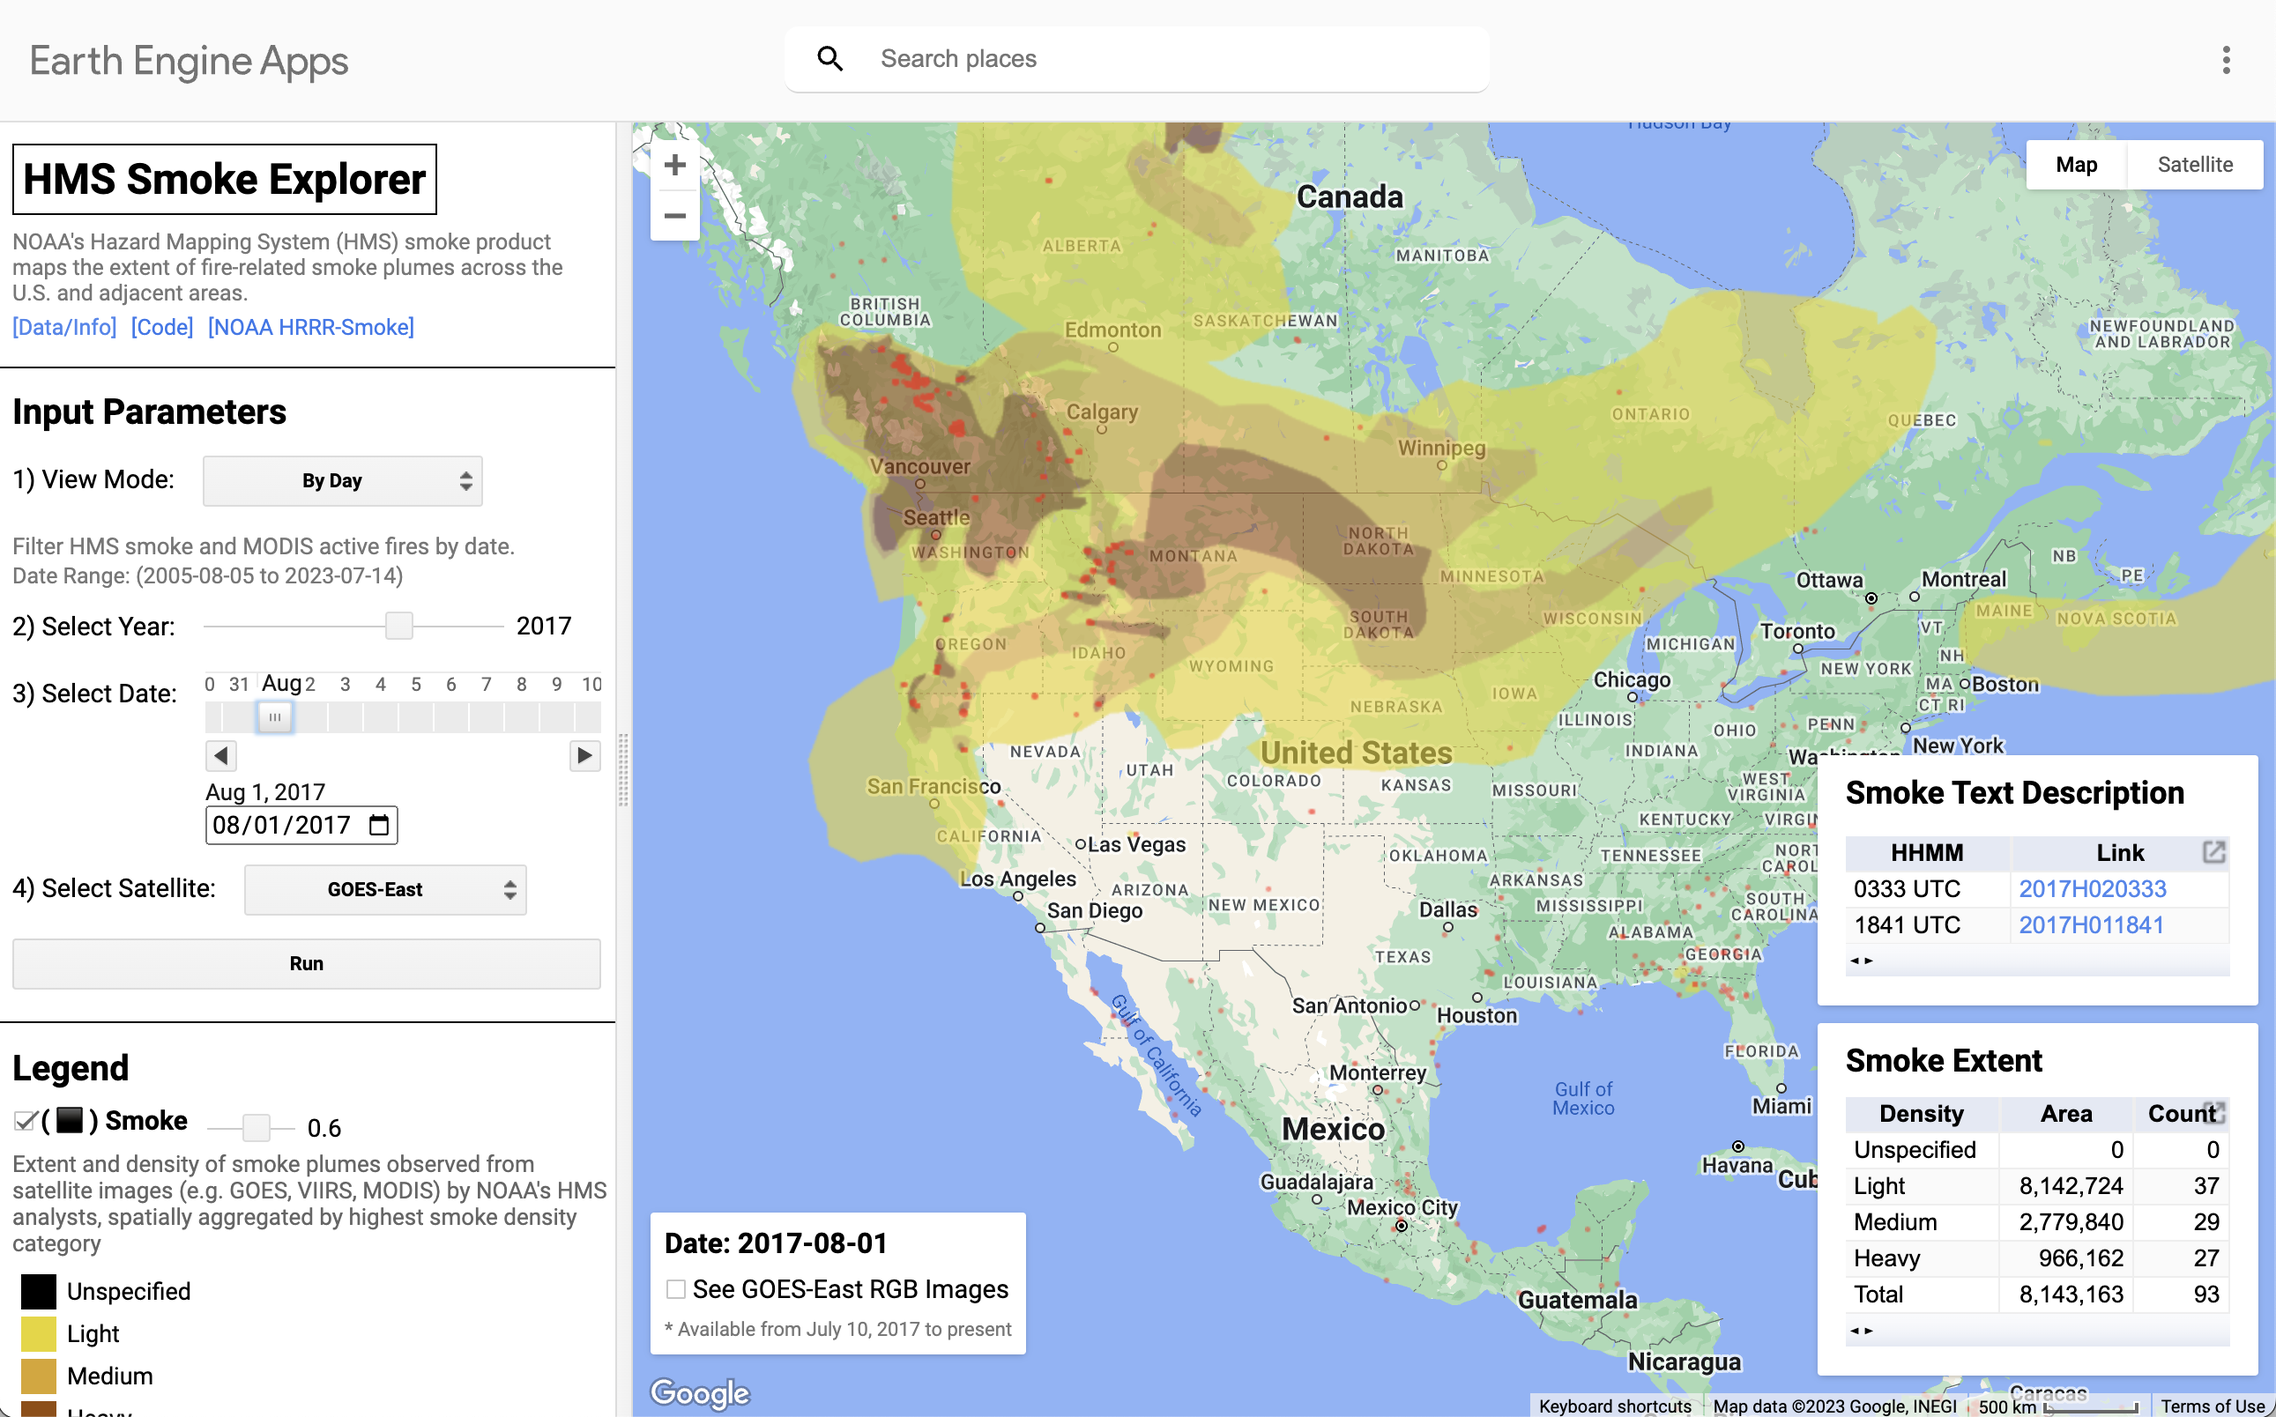
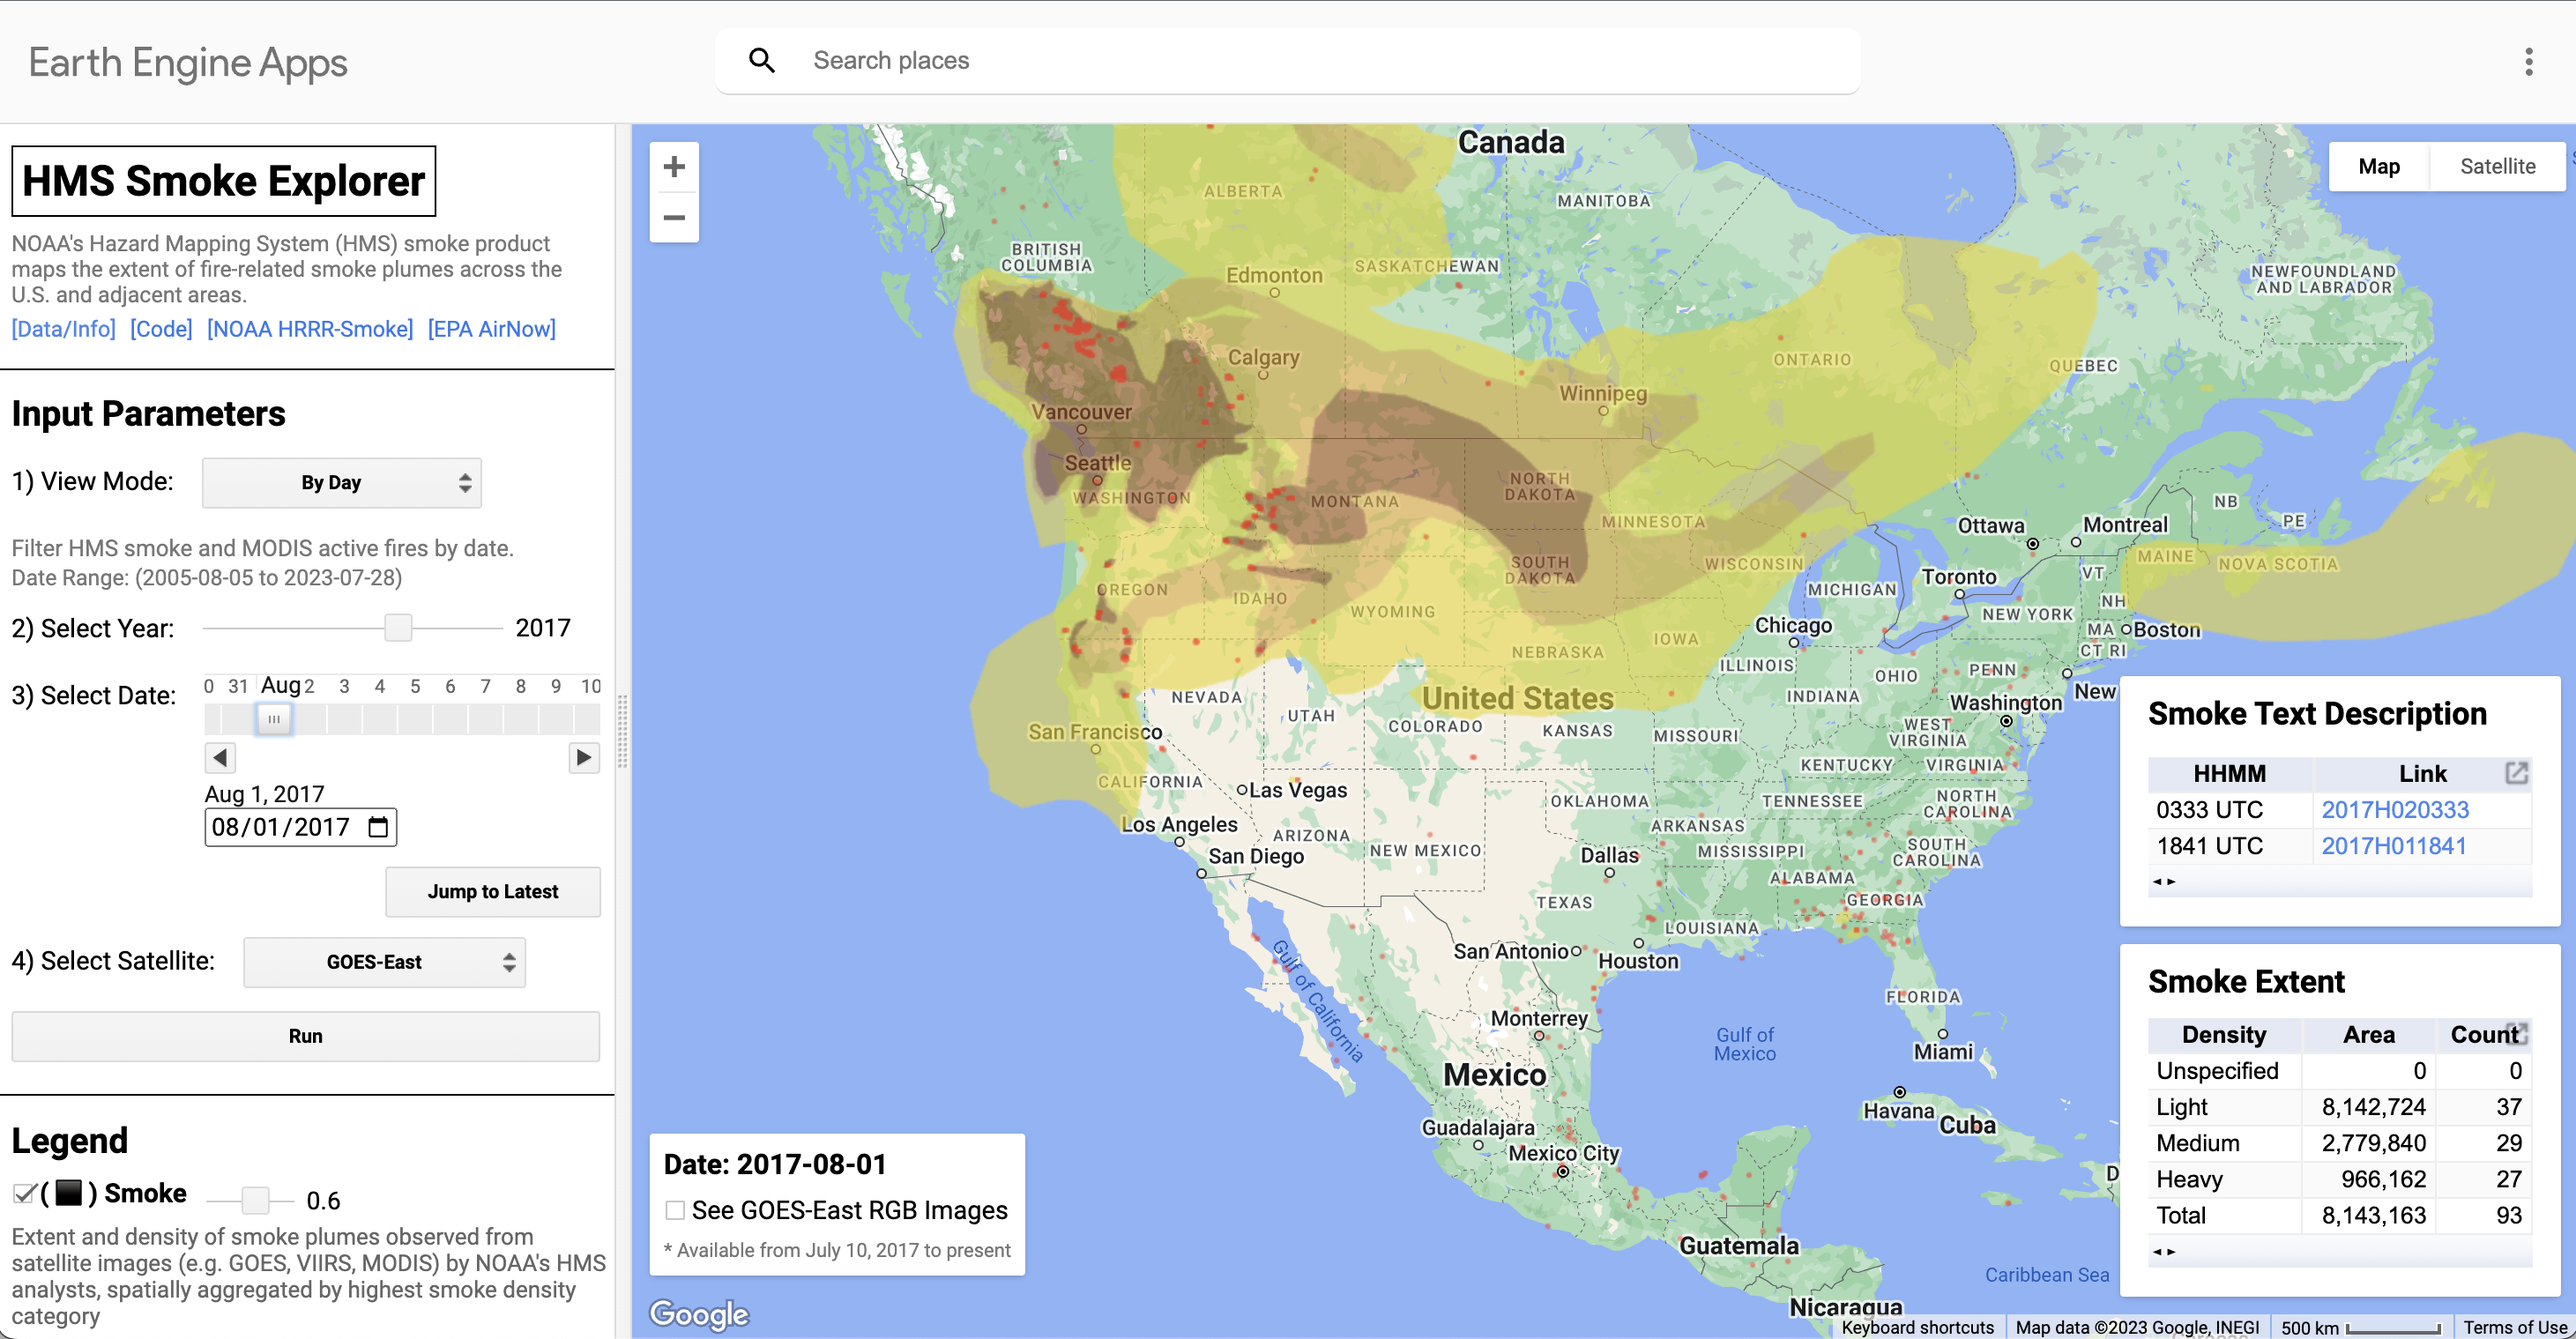
add jump to latest button

diff --git a/gee/UI_HMS_Smoke.js b/gee/UI_HMS_Smoke.js
@@ -10,7 +10,7 @@ var firms = ee.ImageCollection("FIRMS"),
 // *****************************************************************
 /*
 // @author Tianjia Liu (tianjia.liu@columbia.edu)
-// Last updated: July 25, 2023
+// Last updated: July 29, 2023
 
 // Purpose: visualize HMS smoke with MODIS active fires
 // and aerosol optical depth
@@ -29,7 +29,7 @@ var projFolder = 'projects/GlobalFires/';
 var sYear = 2005;
 var eYear = 2022;
 var nrtYear = eYear + 1;
-var nrtEnd = '2023-07-25';
+var nrtEnd = '2023-07-28';
 
 var region = ee.Geometry.Rectangle([-180,0,0,90],null,false);
 maiac = maiac.filterBounds(region);
@@ -227,10 +227,10 @@ var getGOESrgb = function(dateTime,goesRGB_ID,goesFire_ID) {
   var goesRGB = red.addBands(green).addBands(blue);
   
   var goesFireCol = ee.ImageCollection(goesFire_ID)
-    .filterDate(dateTime,dateTime.advance(1,'hour')).select('DQF');
+    .filterDate(dateTime,dateTime.advance(1,'hour')).select('Power');
     
   var goesFire = ee.Algorithms.If(goesFireCol.size().gt(0),
-    ee.Image(goesFireCol.min().eq(0).selfMask()),ee.Image(0).selfMask());
+    ee.Image(goesFireCol.max().gt(0).selfMask()),ee.Image(0).selfMask());
   
   return goesRGB.visualize({min:0, max:maxVis, gamma: 1.5})
     .blend(ee.Image(goesFire).visualize({palette: 'red', opacity: 0.4}));
@@ -504,10 +504,28 @@ var setTimePanel = function(viewMode) {
   yearSlider.style().set('stretch', 'horizontal');
   var yearPanel = ui.Panel([yearLabel, yearSlider], ui.Panel.Layout.Flow('horizontal'), {stretch: 'horizontal'});
   
+  var jumpToLatestButton = ui.Button({label: 'Jump to Latest',  
+    style: {stretch: 'horizontal',width:'35%',margin:'3px 8px 8px 220px'}});
+  var jumpToLatestPanel = ui.Panel([jumpToLatestButton],
+    ui.Panel.Layout.Flow('horizontal'), {stretch: 'horizontal'});
+  
   var dateLabel = ui.Label('3) Select Date:', {fontSize: '14.5px', margin: '12px 8px 8px 8px'});
   var dateSlider = ui.DateSlider({start: '2017-01-01', end: '2018-01-01', value: '2017-08-01'});
   dateSlider.style().set('stretch', 'horizontal');
   var datePanel = ui.Panel([dateLabel, dateSlider], ui.Panel.Layout.Flow('horizontal'), {stretch: 'horizontal'});
+  
+  jumpToLatestButton.onClick(function() {
+    yearSlider.setValue(nrtYear);
+    var startDate = ee.Date.fromYMD(nrtYear,1,1).format('Y-MM-dd').getInfo();
+    var inDate = ee.Date(nrtEnd).format('Y-MM-dd').getInfo();
+    var endDate = ee.Date(nrtEnd).advance(1,'day').format('Y-MM-dd').getInfo();
+      
+    dateSlider = ui.DateSlider({start: startDate, end: endDate, value: inDate});
+    dateSlider.style().set('stretch', 'horizontal');
+    
+    datePanel.remove(datePanel.widgets().get(1));
+    datePanel.insert(1, dateSlider);
+  });
   
   var timePanel = ui.Panel([dateInfoLabel,yearPanel]);
     
@@ -543,10 +561,9 @@ var setTimePanel = function(viewMode) {
     
     var satPanel = ui.Panel([satLabel, satSelect], ui.Panel.Layout.Flow('horizontal'), {stretch: 'horizontal'});
 
-    timePanel = ui.Panel([ui.Panel([dateInfoLabel,updateLabel]),yearPanel,datePanel,satPanel]);
+    timePanel = ui.Panel([ui.Panel([dateInfoLabel,updateLabel]),yearPanel,datePanel,jumpToLatestPanel,satPanel]);
   }
 
-  
   return timeModePanel.add(timePanel);
 };
 
@@ -566,7 +583,7 @@ var getYear = function(timeModePanel,viewMode) {
 };
 
 var getSat = function(timeModePanel) {
-  var satName = timeModePanel.widgets().get(0).widgets().get(3).widgets().get(1).getValue();
+  var satName = timeModePanel.widgets().get(0).widgets().get(4).widgets().get(1).getValue();
 
   return satName;
 };
@@ -793,7 +810,8 @@ var viewPanel = viewPanel();
 var timeModePanel = ui.Panel();
 setTimePanel('By Day');
 
-controlPanel.add(infoPanel).add(viewPanel).add(timeModePanel).add(runButton);
+controlPanel.add(infoPanel).add(viewPanel).add(timeModePanel)
+  .add(runButton);
 
 var counter = 0;
 

diff --git a/README.md b/README.md
@@ -69,7 +69,7 @@ Notes:
 * GOES-16/East became operational on December 18, 2017, GOES-17/West on February 12, 2019, and GOES-18/West on January 4, 2023 (replacing GOES-17/West). Note these dates when selecting the GOES RGB images.
 
 ### HMS Quality Control
-Number of HMS polygons in each year, and how many are invalid after processing in R (up to July 25, 2023).
+Number of HMS polygons in each year, and how many are invalid after processing in R (up to July 28, 2023).
 | Year | Total | Valid | Invalid | 
 | :--- | :--- | :--- | :--- | 
 2005 | 6296 | 6291 | 5
@@ -90,9 +90,9 @@ Number of HMS polygons in each year, and how many are invalid after processing i
 2020 | 45440 | 45438 | 2
 2021 | 27573 | 27572 | 1
 2022 | 21906 | 21904 | 2
-2023 | 12855 | 12854 | 1
+2023 | 12944 | 12943 | 1
 
 ### Updates
-* July 2023: updated R code to process HMS from rgdal to sf, code is now more inclusive of out-of-bounds polygons and attempts to fix some bad geometries (unclosed rings and out-of-bounds coordinates) but excludes polygons with crossed edges as sf cannot fix them; added QA flags
+* July 2023: updated R code to process HMS from rgdal to sf, code is now more inclusive of out-of-bounds polygons and attempts to fix some bad geometries (unclosed rings and out-of-bounds coordinates) but excludes polygons with crossed edges as sf cannot fix them; added QA flags; added jump to latest button
 * September 2020: added option to select GOES-East or GOES-West full disk imagery, added CAMS PM<sub>2.5</sub> and AOD
 * August 2020: added visualization of GOES RGB imagery, HMS smoke days and 'duration'
